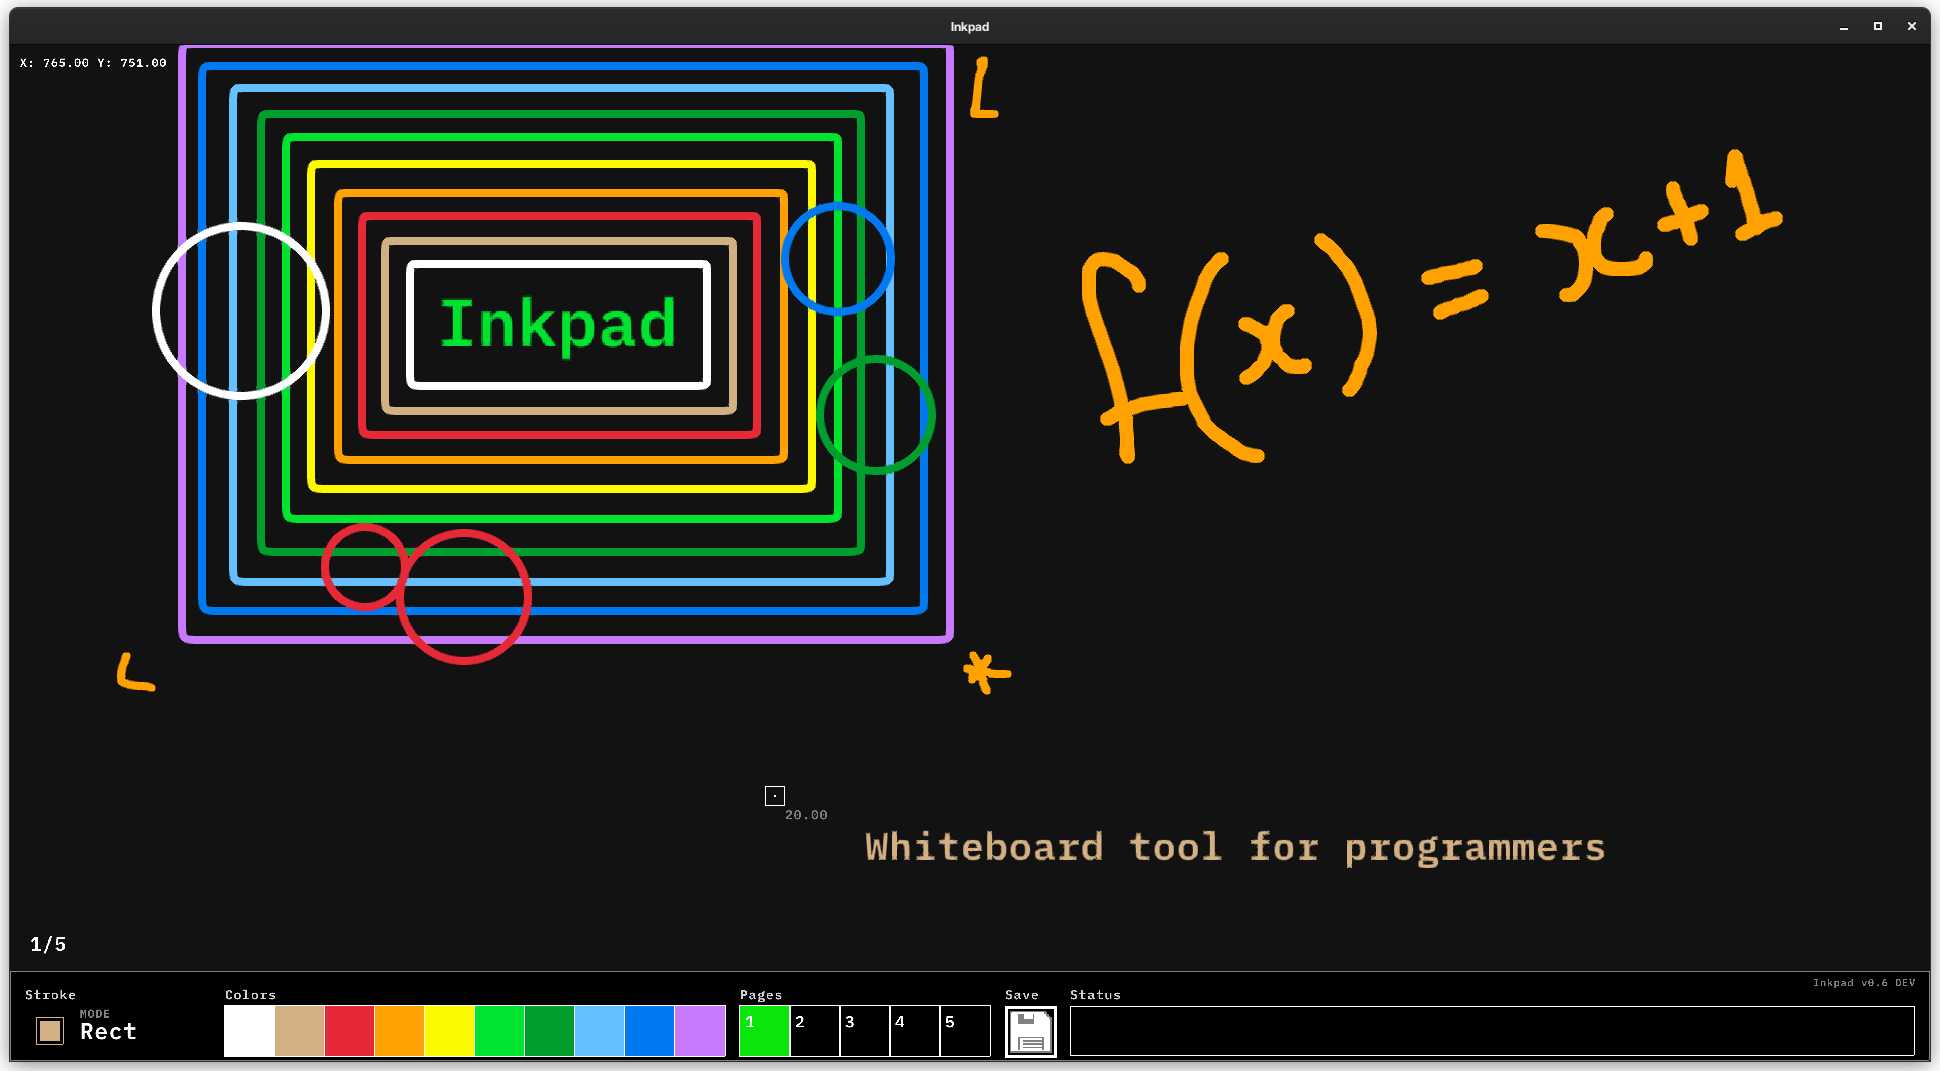
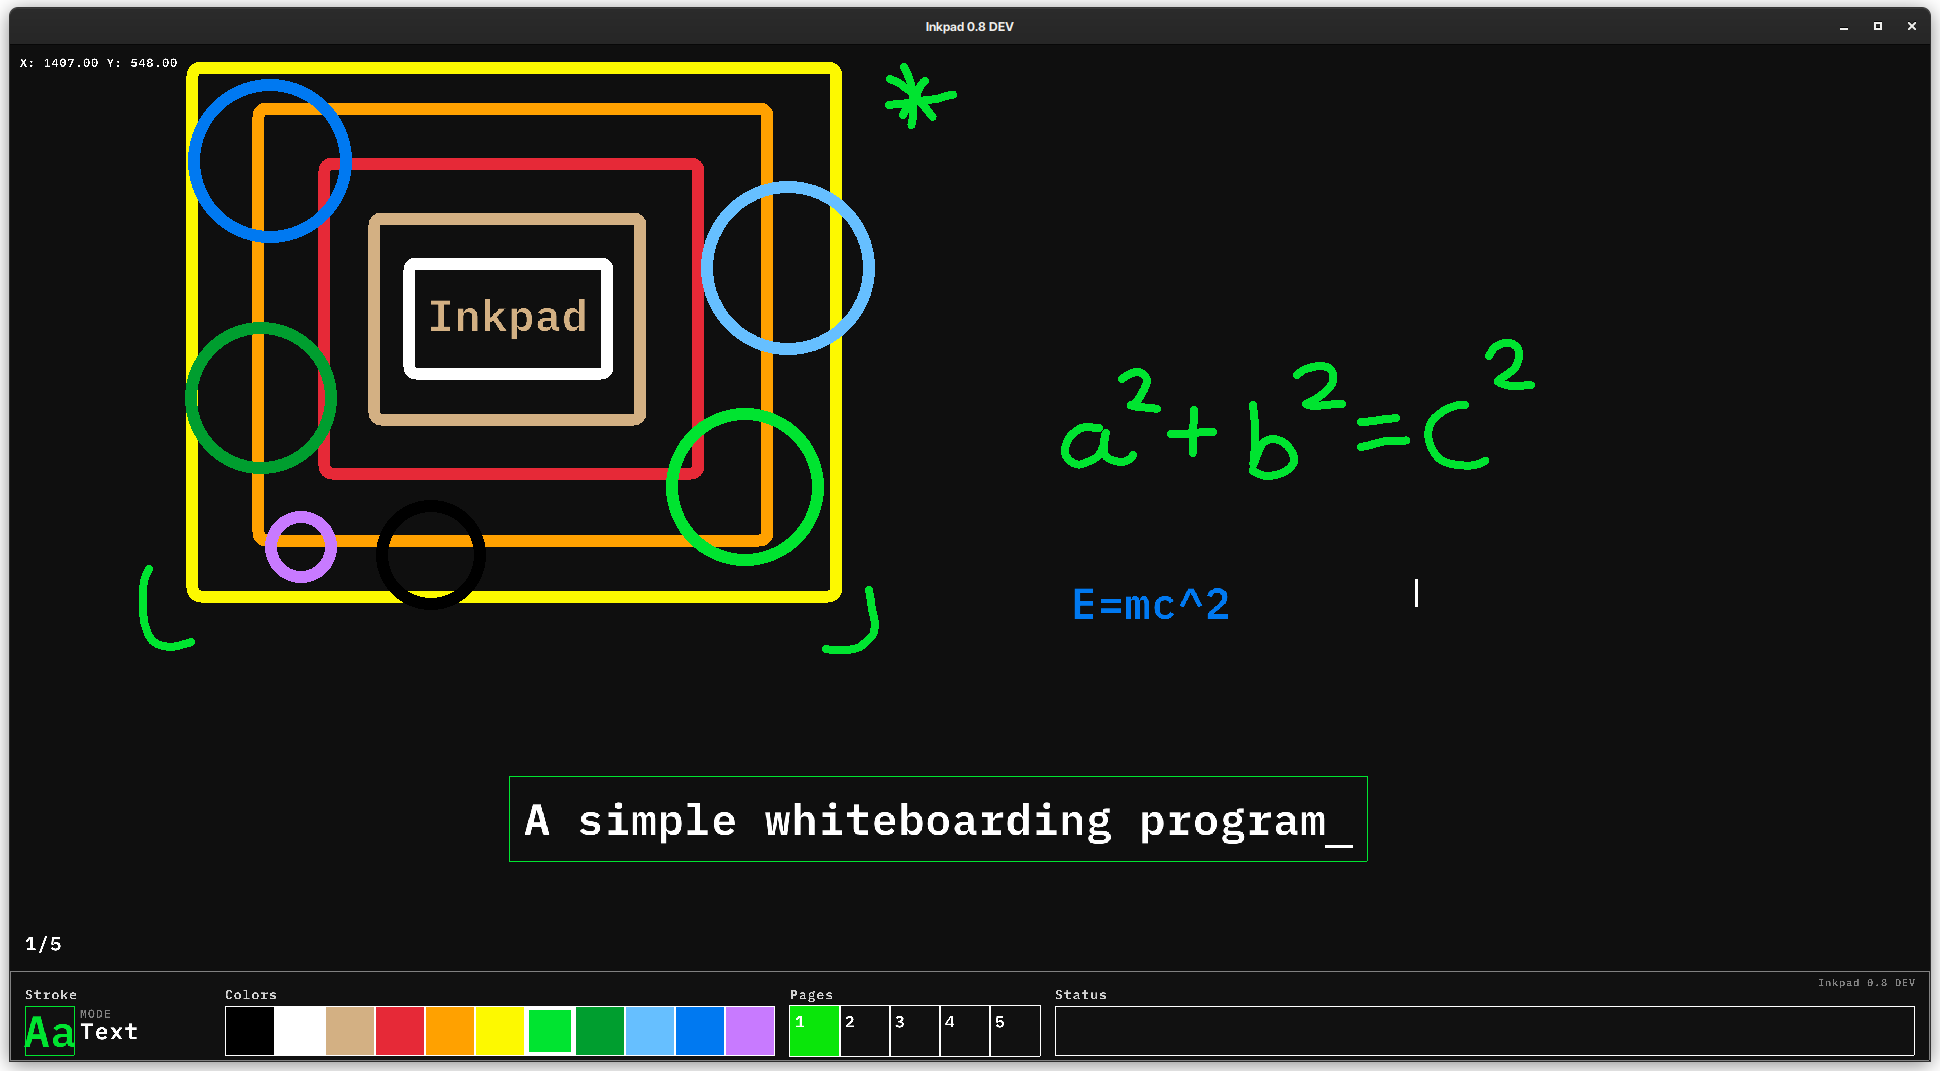
readme and screenshot changes

diff --git a/README.md b/README.md
@@ -1,5 +1,5 @@
 # Inkpad
-A whiteboard tool for programmers.
+A simple whiteboarding program.
 
 <img src="./screenshot.png" width="800" alt="Screenshot">
 
